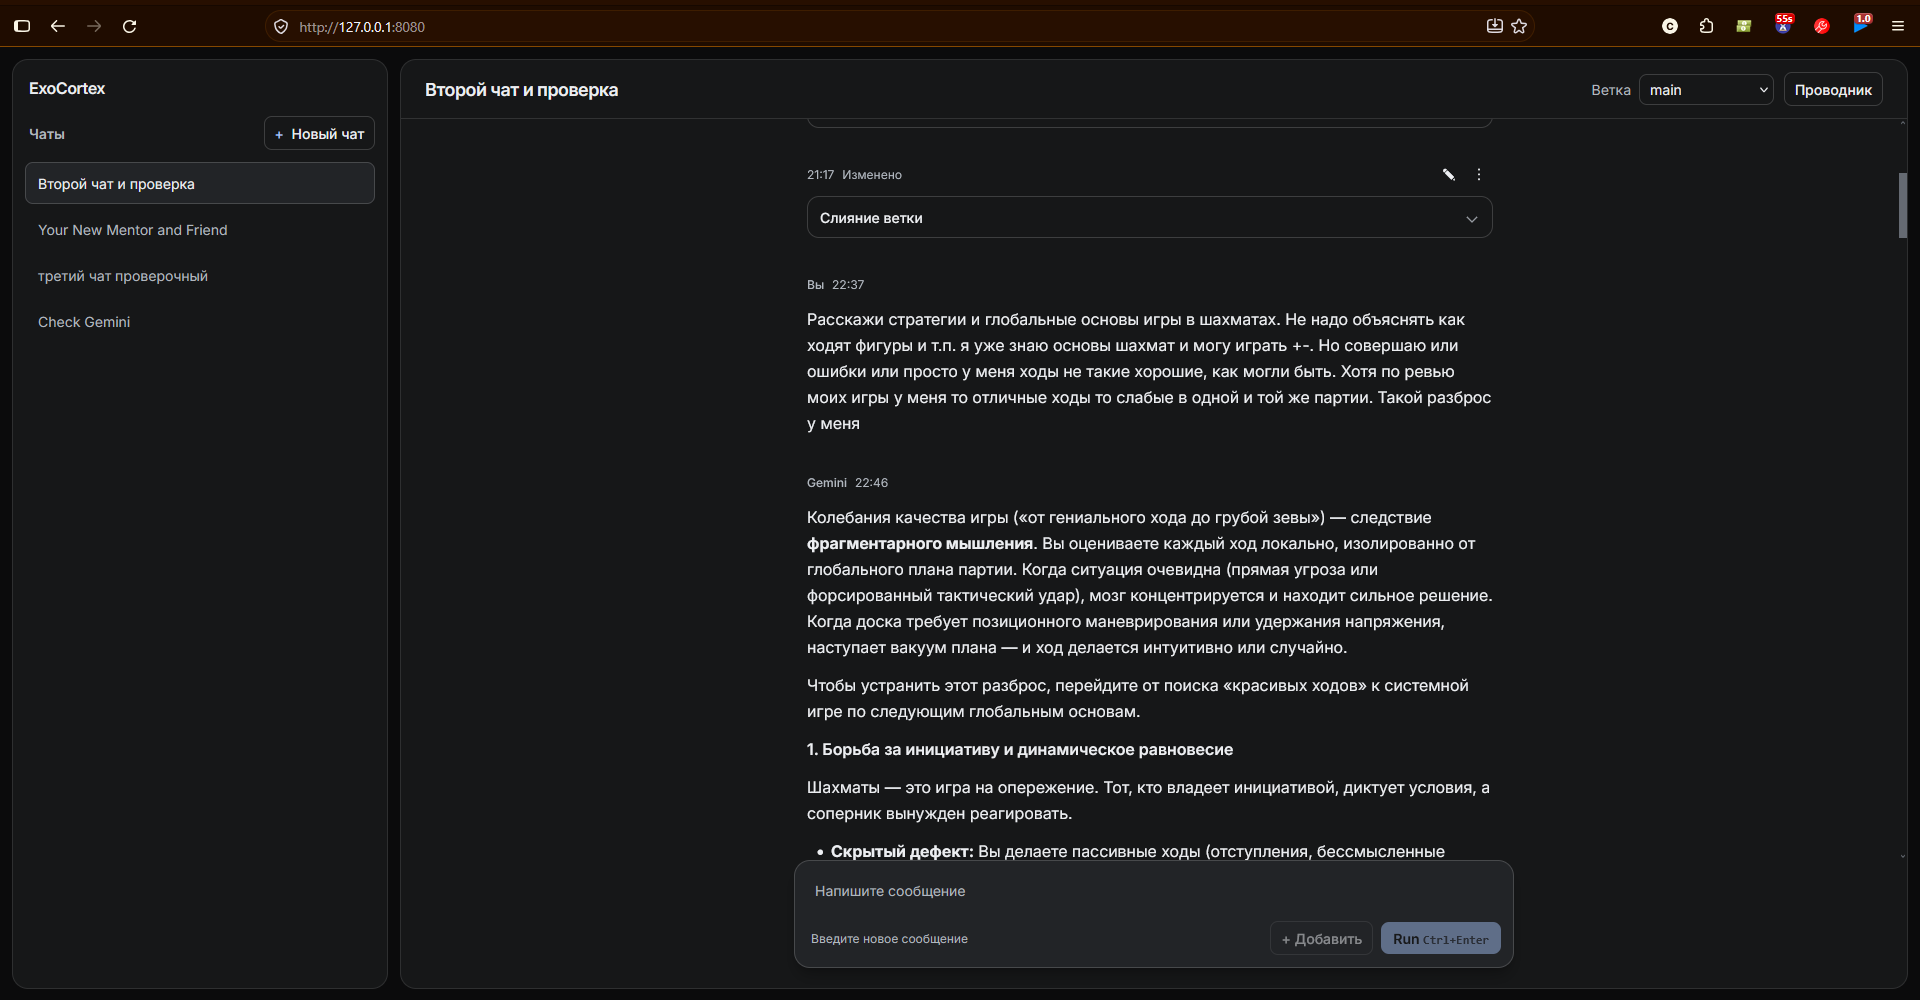
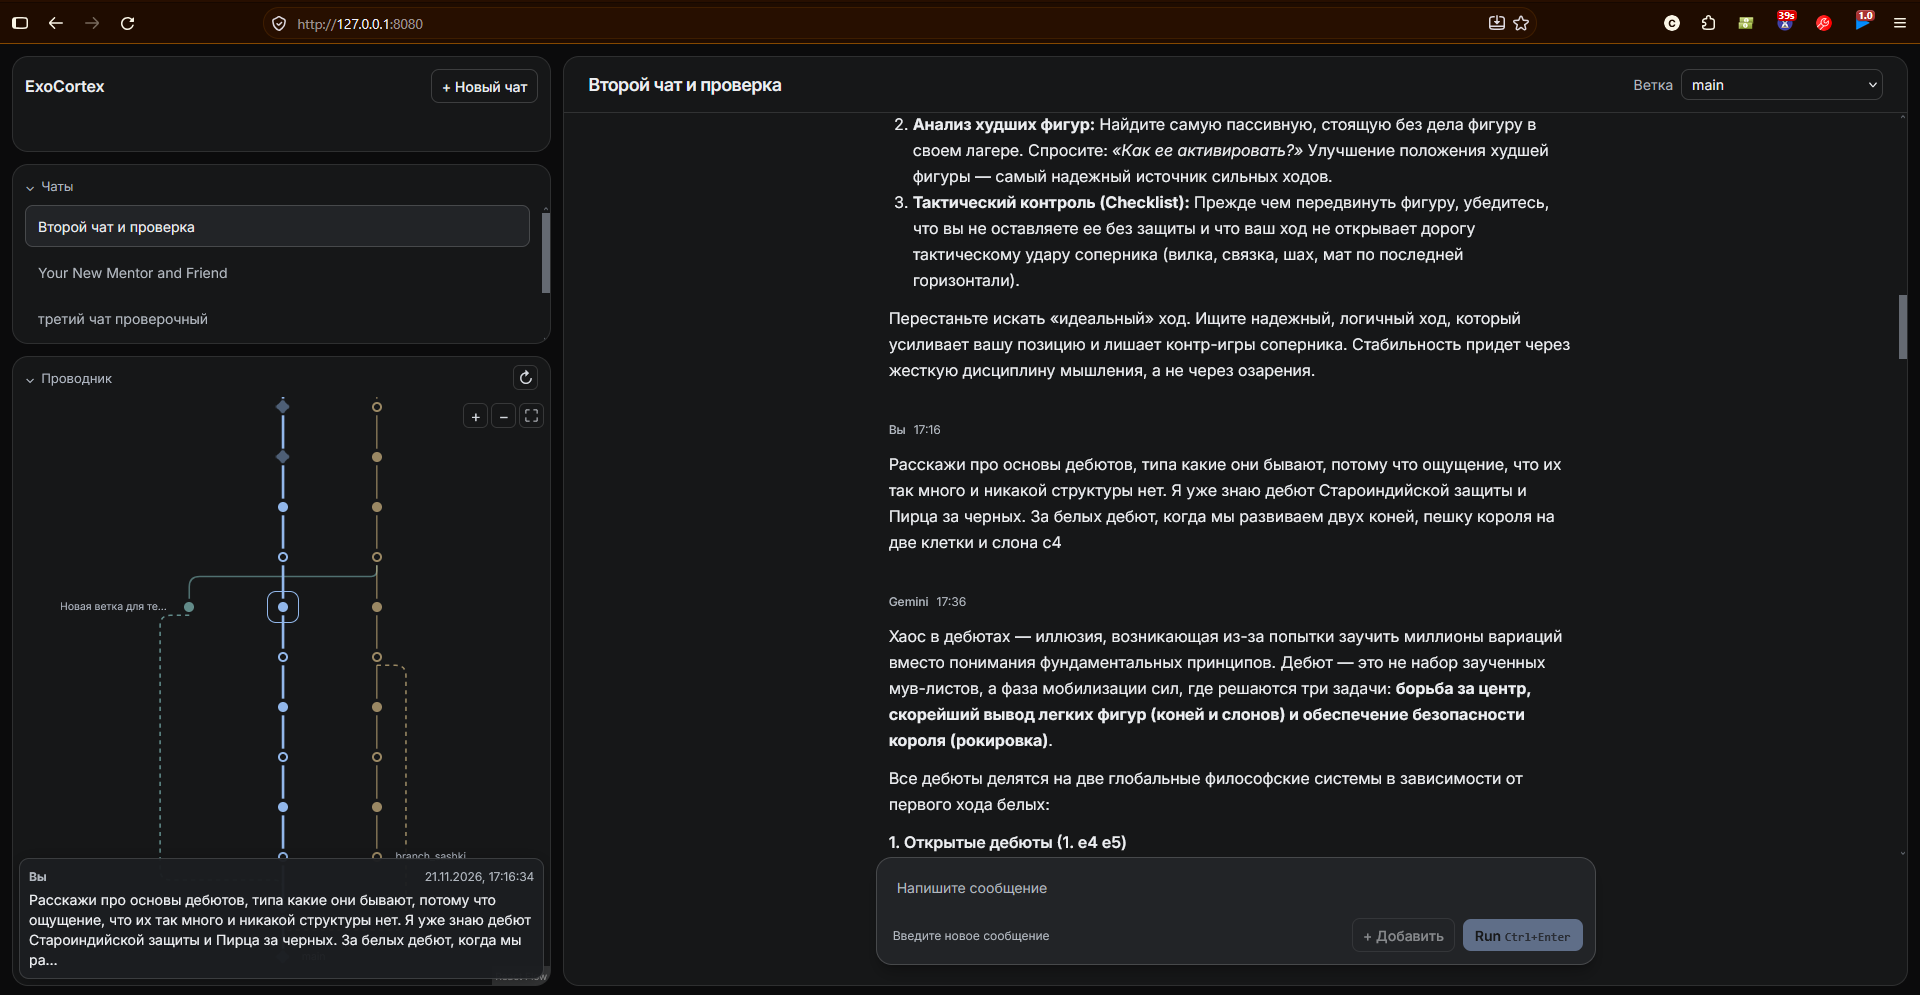
docs: refresh project overview and screenshot gallery
Describe the implemented explorer, memory tools and bounded history view.
Clarify the technology stack, Docker prerequisites, external Gemini usage
and license terms for portfolio visitors.

Replace outdated interface images with five user-provided screenshots
and add captions inside a collapsible gallery.

Validation: checked local README link targets, gallery markup and staged
diff formatting; screenshots visually inspected. Documentation-only change;
application tests and GitHub CI were not rerun for this commit.

diff --git a/README.md b/README.md
@@ -1,42 +1,85 @@
 # ExoCortex
 
-ExoCortex — локальное приложение для диалогов с Gemini. Граф истории позволяет создать ветку от любой реплики, исследовать альтернативу и перенести её выводы в `main` через слияние со сводкой.
+ExoCortex — локальное рабочее пространство для диалогов с Gemini: исследуйте альтернативы в отдельных ветках, объединяйте выводы через сводки и ориентируйтесь в истории с помощью визуального Проводника.
 
-**Статус: ранняя локальная версия (MVP).** Основные сценарии реализованы; интерфейс и REST-контракт продолжают развиваться. Следующий этап — визуальный проводник по графу диалога. [Планы развития](ROADMAP.md)
+**Статус: MVP с реализованным визуальным Проводником.** Основные сценарии и навигация по графу реализованы; приложение продолжает развиваться. [Планы развития](ROADMAP.md)
 
-- Редактируйте и исключайте реплики из контекста. Скрытые карточки остаются в истории, чтобы их можно было вернуть.
-- Перегенерируйте ответ в новой ветке и сохраняйте отдельный черновик для каждой ветки.
-- Возвращайтесь к старым обсуждениям через полнотекстовый поиск по датам, чтение соседних сообщений и обзор веток.
-- Импортируйте историю из Google AI Studio в новый чат.
+## Возможности
+
+- **Ветки и слияния.** Создавайте ветки от реплик, ведите независимые исследования и переносите их выводы в `main` через слияние со сводкой.
+- **Визуальный Проводник.** Просматривайте миникарту истории с указателями веток и связями слияний. Двойной клик или Enter открывает выбранную реплику в чате.
+- **Длинная история.** Лента загружается порциями в обе стороны и сохраняет позицию чтения. Одновременно отображается до 160 сообщений; это не ограничение размера истории или контекста модели.
+- **Управление контекстом.** Редактируйте реплики и исключайте их из контекста. Скрытые сообщения остаются в истории и могут быть возвращены.
+- **Генерация и черновики.** Сохраняйте вопрос без вызова модели или запускайте ответ через Run. Перегенерация создаёт новую ветку; черновики ввода сохраняются отдельно для каждой ветки.
+- **Инструменты памяти агента.** Модель может искать активные сообщения по ключевым словам и датам, читать соседние реплики, получать обзор чата и сводки веток.
+- **Импорт AI Studio.** Переносите текстовую историю Google AI Studio в новый чат.
+
+История хранится локально в SQLite. При генерации и суммаризации контекст передаётся внешнему Gemini API — приложение не работает полностью офлайн.
+
+## Технологии
+
+| Часть | Стек |
+| --- | --- |
+| Backend | Python 3.12, FastAPI, Pydantic, SQLAlchemy Async |
+| Хранение | SQLite, FTS5, Alembic |
+| Агент | Google Gen AI SDK, инструменты поиска и чтения истории |
+| Frontend | React, TypeScript, Vite, Tailwind CSS, Zustand |
+| Проводник и панели | React Flow, react-resizable-panels |
+| Запуск | Docker Compose, Nginx |
+| Проверки | pytest, Vitest, Testing Library, Playwright, GitHub Actions |
 
 ## Интерфейс
 
-Лента диалога, список чатов и поле ввода в текущей версии:
+**Рабочее пространство.** Слева — список чатов и Проводник, справа — диалог и поле ввода. Цвета выделяют ветки, формы узлов обозначают роли сообщений; выбранный узел показывает краткое превью.
 
-![Основной интерфейс ExoCortex с диалогом и узлом слияния](docs/assets/screenshots/workspace.png)
+![Рабочее пространство ExoCortex: диалог, список чатов и граф истории с превью сообщения](docs/assets/screenshots/workspace.png)
 
 <details>
-<summary>Создание чата и выбор ветки</summary>
+<summary>Галерея: создание чата, переход между ветками и превью сообщений</summary>
 
-Создание именованного чата:
+### Создание чата
 
-![Форма создания чата в боковой панели](docs/assets/screenshots/create-chat.png)
+Новый чат создаётся через диалоговое окно с вводом названия.
 
-Селектор веток основного чата (дополнительно доступна навигация через миникарту Проводника):
+![Диалог создания нового чата с полем названия](docs/assets/screenshots/create-chat.png)
 
-![Выпадающий список выбора ветки диалога](docs/assets/screenshots/branch-picker.png)
+### Выбор ветки при переходе
+
+Если выбранная реплика доступна в нескольких ветках и не входит в текущую, Проводник предлагает выбрать ветку для перехода. В диалоге видны названия и статусы веток.
+
+![Диалог выбора ветки для сообщения, доступного в нескольких ветках](docs/assets/screenshots/branch-picker.png)
+
+### Превью в верхней части Проводника
+
+Для узла в нижней части панели превью появляется сверху. В карточке показаны роль, время и начало текста; многоточие обозначает сокращённое содержимое.
+
+![Увеличенный граф с выбранным узлом модели и превью в верхней части панели](docs/assets/screenshots/explorer-preview-top.png)
+
+### Превью в нижней части Проводника
+
+Превью меняет расположение в зависимости от положения узла. Здесь показаны обзор веток и слияний и карточка выбранного сообщения с указателем ветки.
+
+![Обзор графа с ветками, пунктирными связями слияний и превью сообщения снизу](docs/assets/screenshots/explorer-preview-bottom.png)
 
 </details>
 
 ## Быстрый запуск
 
-Установите Docker Desktop с Linux-контейнерами или Docker Engine с Compose. Из корня проекта выполните команду запуска.
+Понадобится Docker Desktop с Linux-контейнерами или Docker Engine с Compose. После клонирования репозитория перейдите в его корень.
+
+1. Для генерации скопируйте [`.env.example`](.env.example) в `.env` и задайте `GEMINI_API_KEY`. При необходимости укажите доступную вашему ключу модель через `GEMINI_MODEL`. Не публикуйте `.env`.
+2. Убедитесь, что каталог `data/` существует и доступен для записи: SQLite хранится на хосте. Для другого пути задайте `EXOCORTEX_DATA_DIR` и заранее создайте этот каталог.
+3. Запустите приложение:
 
 ```sh
 docker compose up --build
 ```
 
-Откройте [интерфейс](http://127.0.0.1:8080/) или [Swagger](http://127.0.0.1:8080/docs). SQLite сохраняется на хосте в `data/`. Для проверки генерации сохраните копию [`.env.example`](.env.example) под именем `.env`, задайте `GEMINI_API_KEY` и запустите Compose с обновлённой конфигурацией. Затем создайте чат, введите сообщение и нажмите **Run**. Историю и ветки можно просматривать без ключа.
+Откройте [интерфейс](http://127.0.0.1:8080/) или [Swagger](http://127.0.0.1:8080/docs). Compose применяет миграции перед запуском API. Node.js и Python на хосте для Docker-запуска не нужны.
+
+Создайте чат, введите вопрос и нажмите **Run** (`Ctrl+Enter`). Кнопка **Добавить** сохраняет реплику без вызова модели. Откройте **Проводник**, чтобы увидеть граф и переходить к сообщениям. Создание чатов, веток и просмотр истории доступны без API-ключа; генерация и слияние со сводкой требуют Gemini.
+
+Для остановки выполните `docker compose down`: данные в каталоге `data/` сохраняются. Права записи на Linux, выбор порта и диагностика описаны в [инструкции Docker](docs/how-to/run-with-docker.md).
 
 Если у вас уже есть база, созданная до Alembic, сначала подключите её к миграциям с резервным копированием. Настройки портов и команда подключения описаны в [инструкции Docker](docs/how-to/run-with-docker.md).
 
@@ -90,3 +133,7 @@ npm run dev
 | Справочник | [Спецификация MVP](docs/SPEC.md), [REST API](docs/SPEC.md#5-контракты-api-и-pydantic-схемы-rest-interface), [схема SQLite](docs/db_architecture.md) |
 | Устройство приложения | [Транспорт и сервисы](docs/explanation/transport.md), [ядро агента](docs/agent_core.md), [операции графа](docs/spec_crud_graph.md) |
 | Проводник | [Работа с миникартой](docs/how-to/use-explorer.md), [спецификация](docs/spec_chat_explorer.md), [roadmap](ROADMAP.md) |
+
+## Лицензия
+
+Исходный код предоставлен для демонстрации портфолио; проект не распространяется под открытой лицензией. Условия использования и ограничения приведены в [LICENSE](LICENSE).
